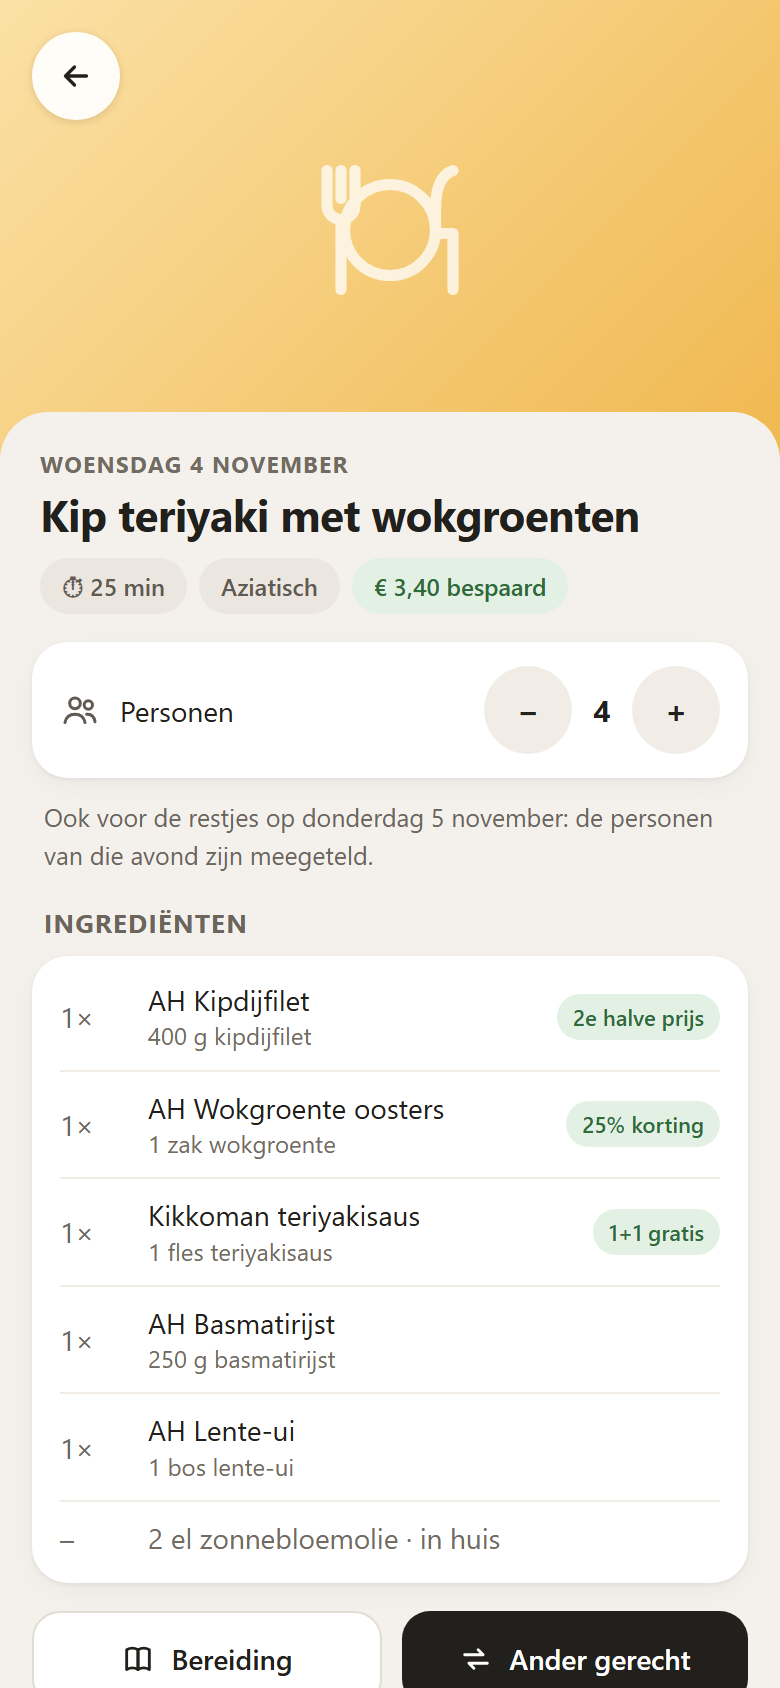
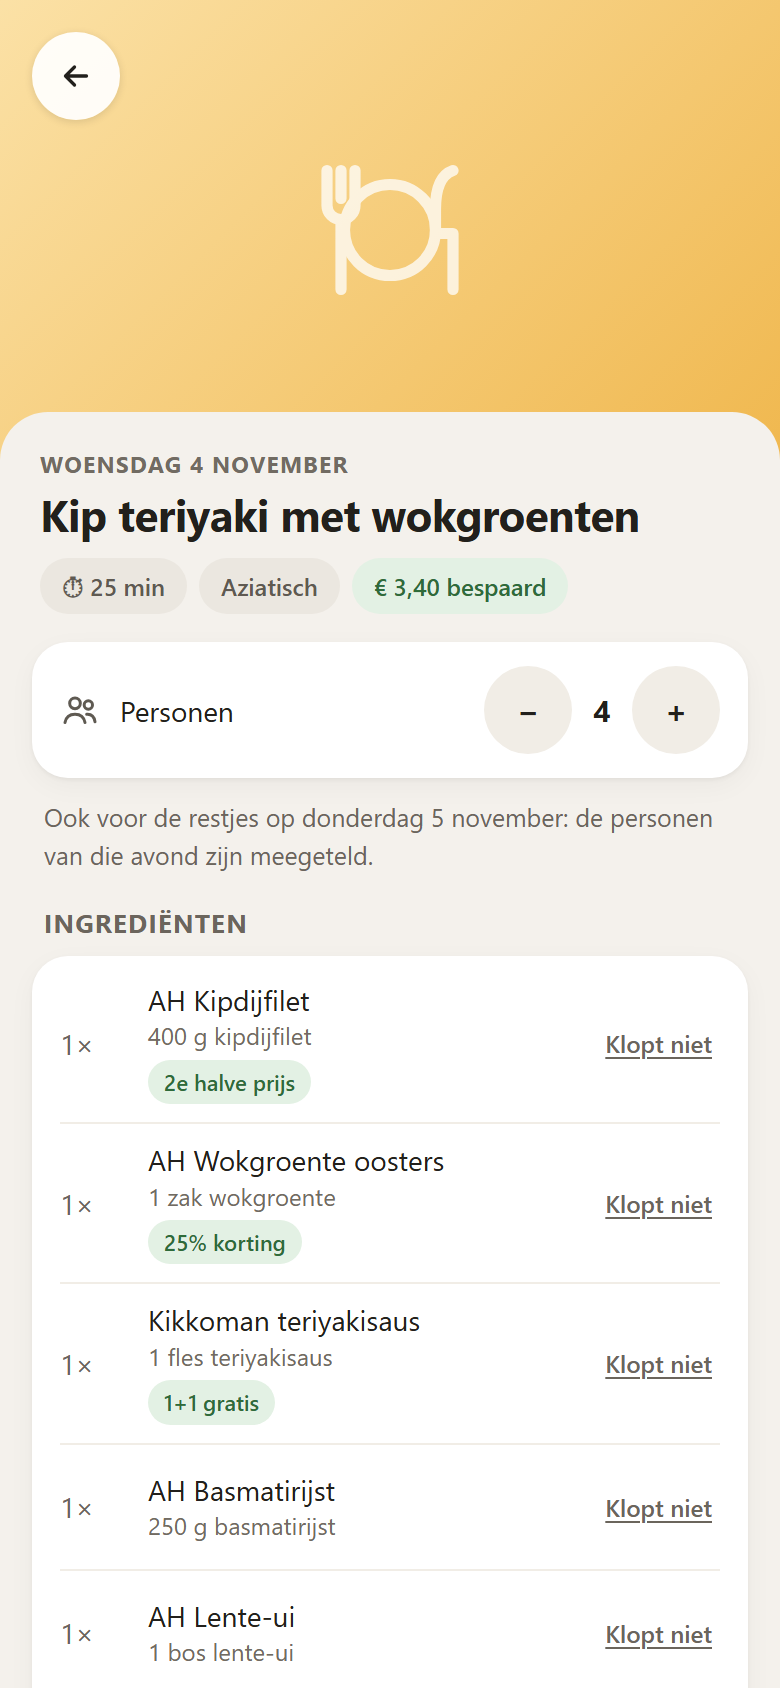
chore: versie 0.9.0, CHANGELOG, DOCS, GIDS, README en nieuwe screenshots
De onzeker-kop in de Check-kaart staat los van de lijst (test_no_system_words).
docs/screenshots: app-week (met de Check-kaart), app-gerecht (Klopt niet per regel),
app-instellingen (Mijn correcties) vervangen, app-klopt-niet nieuw.

diff --git a/weekmenu/app/static/app.js b/weekmenu/app/static/app.js
@@ -324,9 +324,11 @@ function checkCard(w) {
         <span class="ck-btns"><button class="btn sec2 sm" data-fixday="${esc(x.date)}" data-fix="${esc(x.ingredient)}">Zoek product</button>
         <button class="btn sec2 sm" data-skipday="${esc(x.date)}" data-skip="${esc(x.ingredient)}">Hoeft niet</button></span></div>`).join("")}</div>`;
   }
-  if (c.pending && c.pending.length) {
-    body += `<div class="ck bad"><b>${w.target === "list" ? "Nog niet zeker of dit op je lijst staat"
-      : "Nog niet zeker of dit in je bestelling staat"}</b><span class="muted">Controleer in de AH-app.</span>${list(c.pending)}</div>`;
+  const unsureItems = c.pending || [];
+  if (unsureItems.length) {
+    const head = w.target === "list" ? "Nog niet zeker of dit op je lijst staat"
+      : "Nog niet zeker of dit in je bestelling staat";
+    body += `<div class="ck bad"><b>${head}</b><span class="muted">Controleer in de AH-app.</span>${list(unsureItems)}</div>`;
   }
   if (c.unknown && c.unknown.length) {
     body += `<div class="ck bad"><b>Status onbekend</b><span class="muted">Controleer in de AH-app.</span>${list(c.unknown)}</div>`;

diff --git a/weekmenu/tests/test_release.py b/weekmenu/tests/test_release.py
@@ -14,7 +14,7 @@ REPO = ROOT.parent
 def test_versions_in_sync():
     config = yaml.safe_load((ROOT / "config.yaml").read_text(encoding="utf-8"))
     project = tomllib.loads((ROOT / "pyproject.toml").read_text(encoding="utf-8"))
-    assert config["version"] == project["project"]["version"] == "0.8.0"
+    assert config["version"] == project["project"]["version"] == "0.9.0"
 
 
 def test_app_knows_its_own_version():

diff --git a/weekmenu/app/__init__.py b/weekmenu/app/__init__.py
@@ -1,2 +1,2 @@
 # kept equal to config.yaml by tests/test_release.py
-__version__ = "0.8.0"
+__version__ = "0.9.0"

diff --git a/README.md b/README.md
@@ -43,6 +43,12 @@ The days you do eat at home are the eat days. Under Settings you choose the numb
 
 When you pick Ander gerecht, Nieuw menu, Menu bijwerken, fewer persons or Gerecht weghalen (a new button on the dish screen: the evening gets no dish, and its leftover night goes too), the add-on lowers what it added itself and the new menu no longer needs. The new quantity is the current quantity minus what the add-on added and is no longer needed, never lower than what is on there besides the add-on. Products you ticked off on the list are left alone, and so are Vaste boodschappen and Aanbiedingen you tapped yourself: those are never cleaned up. Every lowering goes through the same write-ahead log as adding: noted first, then written, and after a crash first checked whether it arrived, never blindly repeated. A menu that is not for a coming week any more (the week has started) is not cleaned up. Whatever a lowering finds you already took off yourself is remembered, and that week no later step (Terug, Ander gerecht, Nieuw menu, Menu bijwerken) adds it back. The app tells you how many products went ("2 producten uit je bestelling gehaald"). The add-on never checks out.
 
+## Check and corrections
+
+At the top of the Week tab, under the order line, the card "Check voor je bestelt" bundles what still needs a look before ordering, with a count per kind: ingredients not found (per dish, each with "Zoek product" and "Hoeft niet"), writes whose outcome is not sure yet, what is left over from the previous menu, products not added yet and products priced per weight ("hoeveelheid controleren": one piece is bought, never several to reach the weight). With nothing left it shows a green tick, "Alles staat klaar".
+
+Every ingredient line on the dish screen has "Klopt niet" with three choices: another product (searched at AH, you pick one), "Hoeft niet" (never buy anything for it) and "Hebben we al" (counts as at home). The choice is kept for good in `/data/overrides.json` under the normalised ingredient name, goes before the add-on's own matching in every week, and is applied to the current menu at once through the same write route as Ander gerecht (one lock, write-ahead, never retried, the order-week check, the pause). Settings lists them under "Mijn correcties", each with Terugdraaien. Swaps and removals are logged per week in `/data/history.json`, without asking why.
+
 ## Which order
 
 The add-on only writes into an open order whose delivery day lies in the menu week (Wednesday to Tuesday); it reads that day from the order summary or from the open orders. On a Monday or Tuesday the open order is usually still the one for this Wednesday, while the menu is for the week after. Then nothing is added or lowered, also no Vaste boodschappen or Aanbiedingen: the menu is saved, and the app and the message say "Het menu staat klaar; de producten worden toegevoegd zodra er een bestelling of lijst voor <bezorgdatum> is". The hourly check (with the weekmenu on) adds the products as soon as there is an order for the menu week, or no order and so the list. The same happens when the delivery day cannot be read. Only the week the schedule works on is retried. For any other week (a change to the running week while next week's order is open, or a held menu once the schedule has moved on to the week after) and for a tapped staple or offer, the note instead names the products to add yourself in the AH app ("Deze producten konden niet in je bestelling. Voeg ze zelf toe in de AH-app: ..."), and a held menu the schedule moved past gets that as one push.

diff --git a/weekmenu/CHANGELOG.md b/weekmenu/CHANGELOG.md
@@ -1,5 +1,14 @@
 # Changelog
 
+## 0.9.0
+
+- **Check voor je bestelt.** Bovenaan de Week, onder de bestelregel, staat in één kaart wat nog een blik nodig heeft, met de aantallen per soort: wat niet gevonden is (per gerecht), wat nog niet zeker in je bestelling of op je lijst staat, wat over is van het vorige menu, producten die nog niet toegevoegd konden worden en producten met een prijs per gewicht ("hoeveelheid controleren"). Een product dat niet gevonden is, is een actie: "Zoek product" of "Hoeft niet". Klopt alles, dan staat er een groen vinkje: "Alles staat klaar".
+- **Klopt niet.** Elke ingrediëntregel op het gerechtscherm heeft "Klopt niet", met drie keuzes: een ander product (zoeken bij AH en kiezen), "Hoeft niet" (nooit meer kopen voor dit ingrediënt) en "Hebben we al" (telt voortaan als in huis). De keuze geldt voor dit ingrediënt in elke week en gaat vóór de eigen keuze van de add-on. Op het menu van deze week wordt hij meteen toegepast, met dezelfde garanties als Ander gerecht: wat alleen voor het oude product was gaat eruit als dat nog kan, en de bestelweek-check en de pauze bij een AH-wijziging gelden ook hier. De keuzes staan in `/data/overrides.json`.
+- **Mijn correcties** in Instellingen: elke keuze met Terugdraaien. Terugdraaien geldt vanaf het volgende menu of Ander gerecht; wat nu al in je bestelling of op je lijst staat, blijft.
+- **Minder verkeerde producten.** "2-3 el" telt als 3 el en "1 1/2 el" als 1,5. Een product met "per 100 gram" of "per kilo" in de titel en zonder verpakkingsmaat wordt nooit meerdere keren gekocht om aan het gewicht te komen: er komt 1 stuk, met "hoeveelheid controleren". Kaas is geen pindakaas of kaasstengels, room geen roomboter, melk geen melkchocolade (een kernwoord moet een titelwoord zijn of het laatste deel ervan). Kipkruiden en kippenbouillon tellen niet als kip. "Rode ui" valt niet meer terug op witte uien: rode, witte, gele, zoete, gerookte en gedroogde moeten in de titel staan, en bij "verse" kiest de add-on geen gedroogd, gerookt of diepvriesproduct.
+- **Wissels en weghalingen vastgelegd.** Ander gerecht, Terug en Gerecht weghalen komen per week in `/data/history.json`, zonder om een reden te vragen. Er is nog geen scherm voor; 1.0 rekent er de meetgetallen mee uit.
+- Zet je terug naar 0.8, dan negeert die versie `overrides.json` en `history.json`; de keuzes gelden dan niet, maar blijven bewaard.
+
 ## 0.8.0
 
 - **Vanavond.** Elke dag om 16:00 een korte melding: "Vanavond: <gerecht>, begin om <tijd>", of "Vanavond: restjes van <gerecht>". De begintijd is de etenstijd (`dinner_time`, standaard 18:30) min kook-, oven- en wachttijd, naar beneden afgerond op een kwartier; zou dat vóór 15:00 zijn, dan staat er geen begintijd. Niet thuis, geen gerecht of geen kookmoment: geen melding. Hooguit één keer per dag, ook na een herstart. Hetzelfde staat bovenaan de Week in de app, als attribuut `vanavond` op `sensor.weekmenu` en in `api/week`.

diff --git a/docs/screenshots/README.md b/docs/screenshots/README.md
@@ -21,12 +21,13 @@ Screenshots of the built Weekmenu app, made by `weekmenu/tests/test_frontend.py`
 | ![Week](app-week.png) | ![Dish](app-gerecht.png) |
 | ![Offers](app-aanbiedingen.png) | ![Savings](app-besparing.png) |
 | ![Settings](app-instellingen.png) | ![Login](app-login.png) |
-| ![Welcome](app-welkom.png) | |
+| ![Welcome](app-welkom.png) | ![Klopt niet](app-klopt-niet.png) |
 
-1. Week: under the title the order it is for ("Voor de bestelling van woensdag 4 november"), then "Vanavond" (tonight's dish and when to start), then the savings of the week, then one card per evening, an evening not at home and a leftover night ("Donderdag · restjes van ...") as quiet cards, and under the dishes "Ook in de bonus": staples bought often that are on offer, each with a plus button
-2. One dish: persons, ingredients with the AH product and the bonus offer, preparation and swap
+1. Week: under the title the order it is for ("Voor de bestelling van woensdag 4 november"), then "Check voor je bestelt" (what is not found, with Zoek product and Hoeft niet, and what to check, with the counts; a green tick "Alles staat klaar" when nothing is left), then "Vanavond" (tonight's dish and when to start), then the savings of the week, then one card per evening, an evening not at home and a leftover night ("Donderdag · restjes van ...") as quiet cards, and under the dishes "Ook in de bonus": staples bought often that are on offer, each with a plus button
+2. One dish: persons, ingredients with the AH product and the bonus offer, "Klopt niet" on every ingredient line, preparation and swap
 3. Aanbiedingen: the whole bonus folder of the menu week per category with a search field on top; each product has its photo, the action, the price (old price struck through) and a plus button that becomes a check with the quantity once added
 4. Savings: this month, since the start, and per week
-5. Settings: the same helpers as in Home Assistant: Kookmomenten with the explanation "6 eetdagen, 5 kookmomenten, 1 keer restjes", "Niet thuis eten" chips per day, plus Nieuw menu and Nu maken
+5. Settings: the same helpers as in Home Assistant: Kookmomenten with the explanation "6 eetdagen, 5 kookmomenten, 1 keer restjes", "Niet thuis eten" chips per day, plus Nieuw menu and Nu maken, and Mijn correcties (every "Klopt niet" choice, each with Terugdraaien)
 6. Login: a step plan (on a computer: open the link, F12 and Console, log in, copy the `appie://login-exit?code=` line, paste it here, also from a phone), with the F12 explanation under "Hoe werkt dit?"
 7. Welcome: the first start, without a login or a menu: what the add-on does in three steps
+8. Klopt niet: one ingredient line with three choices: another product (search at AH and pick one), Hoeft niet, Hebben we al

diff --git a/weekmenu/DOCS.md b/weekmenu/DOCS.md
@@ -74,6 +74,12 @@ De add-on schrijft alleen in een open bestelling die in de menuweek (woensdag to
 - Hij haalt alleen producten weg die hij **zelf** voor een menu heeft toegevoegd en die geen gerecht meer nodig heeft, bijvoorbeeld als je een ander gerecht kiest of minder personen. Wat jullie zelf in de bestelling zetten blijft staan, ook vaste boodschappen en aanbiedingen die je zelf aantikte. Wat je zelf van de lijst haalde komt die week niet terug.
 - Elke wijziging wordt eerst in een logboek genoteerd, dan geschreven, en na een crash eerst gecontroleerd. Zo komt er niets dubbel in.
 
+## Check voor je bestelt en Klopt niet
+
+Bovenaan de Week staat de kaart Check voor je bestelt. Daarin staat wat niet gevonden is, wat nog niet zeker in je bestelling staat, wat over is van een vorig menu en welke producten een prijs per gewicht hebben (daarvan zet de add-on 1 stuk in je bestelling; pas het aantal zelf aan als dat te weinig is). Klopt alles, dan staat er "Alles staat klaar".
+
+Pakt de add-on een verkeerd product, tik dan in het gerecht bij dat ingrediënt op Klopt niet. Je kunt een ander product zoeken en kiezen, of zeggen dat het niet hoeft of dat je het al in huis hebt. Die keuze geldt voor dat ingrediënt in elke week en wordt meteen in je bestelling of op je lijst verwerkt, op dezelfde manier als Ander gerecht. Alle keuzes staan in Instellingen onder Mijn correcties, met Terugdraaien. Ze staan in `overrides.json` in de datamap van de add-on en gaan dus mee in je backups.
+
 ## Backups en je AH-login
 
 De AH-login staat in het bestand `tokens.json` in de datamap van de add-on. Die map zit in je Home Assistant-backups. Wie een backup van jou heeft, kan daarmee dus ook bij de AH-login. Bewaar backups goed en deel ze niet.

diff --git a/weekmenu/GIDS.md b/weekmenu/GIDS.md
@@ -18,10 +18,11 @@ Open **Weekmenu** in de zijbalk van Home Assistant. Op de Week staat per dag wat
 - **Minder of meer personen**: tik op het gerecht en gebruik de min en plus.
 - **Niet thuis eten**: kies Instellingen en tik de dag aan bij Niet thuis eten.
 - **Hoe vaak koken**: kies Instellingen, Kookmomenten. Kook je minder vaak dan je thuis eet, dan worden de andere avonden restjesavonden.
+- **Een product klopt niet**: tik in het gerecht bij het ingrediënt op Klopt niet. Kies een ander product, Hoeft niet of Hebben we al. Dat onthoudt de add-on voor altijd; terugdraaien kan bij Instellingen, Mijn correcties.
 
 ## Boodschappen en bestellen
 
-Het menu komt meestal op vrijdag, zodra de nieuwe bonusfolder er is. De boodschappen staan dan in je open bezorgbestelling, of op je AH-lijst als er nog geen bestelling is. Bestellen en betalen doe je zelf in de AH-app. Staat het menu klaar maar is er op zondag om 17:00 nog geen bezorgmoment gekozen, dan krijg je één herinnering.
+Het menu komt meestal op vrijdag, zodra de nieuwe bonusfolder er is. Kijk voor je bestelt even naar de kaart Check voor je bestelt bovenaan de Week: staat daar een groen vinkje, dan staat alles klaar. De boodschappen staan dan in je open bezorgbestelling, of op je AH-lijst als er nog geen bestelling is. Bestellen en betalen doe je zelf in de AH-app. Staat het menu klaar maar is er op zondag om 17:00 nog geen bezorgmoment gekozen, dan krijg je één herinnering.
 
 ## Inloggen bij AH
 
